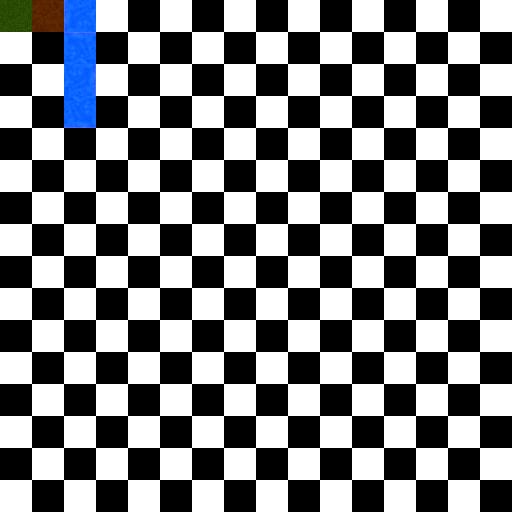
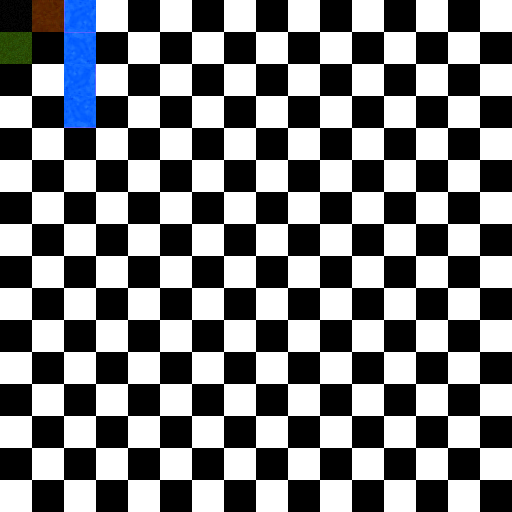
Fog of war

Changed region(s): [[0.0, 0.0, 0.0625, 0.125]]

diff --git a/src/com/adavieslyons/util/map/Map.java b/src/com/adavieslyons/util/map/Map.java
@@ -1,7 +1,10 @@
 package com.adavieslyons.util.map;
 
+import java.util.Arrays;
+
 import com.adavieslyons.orthorpg.entities.NPC;
 import com.adavieslyons.orthorpg.gamestate.states.GameState;
+import com.adavieslyons.util.SpriteSheet;
 import com.adavieslyons.util.Vector2i;
 import com.adavieslyons.util.XMLParser;
 import com.adavieslyons.util.map.pathfinding.AStar;
@@ -10,6 +13,7 @@ import com.adavieslyons.util.map.pathfinding.AStar.Node;
 
 import org.newdawn.slick.GameContainer;
 import org.newdawn.slick.Graphics;
+import org.newdawn.slick.Image;
 import org.newdawn.slick.SlickException;
 import org.w3c.dom.Document;
 import org.w3c.dom.Element;
@@ -26,9 +30,11 @@ public class Map {
 	int width;
 	int height;
 	MapLayer layers[];
+	boolean fogOfWar[][];
 	NPC npcs[];
 	CollisionMap collisionMap;
 	Node[][] nodeMatrix;
+	Image fogOfWarTexture;
 	
 	public void update(GameContainer gc, GameState game, int delta) throws SlickException {
 		for (NPC npc : npcs)
@@ -52,6 +58,21 @@ public class Map {
 		
 		for (NPC npc : npcs)
 			npc.render(gc, graphics);
+	}
+	
+	public void renderPostEntities(GameContainer gc, Graphics graphics) throws SlickException {
+		int tX = 0;
+		for (boolean fogOfWarRow[] : fogOfWar)
+		{
+			int tY = 0;
+			for (boolean fogOfWarTile : fogOfWarRow)
+			{
+				if (fogOfWarTile == true)
+					fogOfWarTexture.draw(tX * 32, tY * 32);
+				tY++;
+			}
+			tX++;
+		}
 	}
 	
 	public void load(GameContainer gc, GameState game) throws SlickException {
@@ -87,7 +108,7 @@ public class Map {
 				}
 			}
 			
-			layers[i] = new MapLayer(i_layerTiles);
+			layers[i] = new MapLayer(i_layerTiles, this);
 		}
 		
 		Element npcRoot = (Element) info.getElementsByTagName("NPCs").item(0);
@@ -124,6 +145,10 @@ public class Map {
 			npcs[i] = npc;
 		}
 		
+		fogOfWarTexture = SpriteSheet.getSpriteSheet(0).getSubImage(0, 0, 32, 32);
+		fogOfWar = new boolean[getWidth()][getHeight()];
+		for (boolean row[] : fogOfWar)
+			Arrays.fill(row, true);
 		collisionMap = new CollisionMap(this);
 		nodeMatrix = AStar.getNodeMatrix(collisionMap);
 	}
@@ -138,5 +163,13 @@ public class Map {
 	
 	public int getHeight() {
 		return height;
+	}
+	
+	public boolean isFogOfWar(int tX, int tY) {
+		return fogOfWar[tX][tY];
+	}
+
+	public void revealCoordinate(int tX, int tY) {
+		fogOfWar[tX][tY] = false;
 	}
 }

diff --git a/src/com/adavieslyons/orthorpg/entities/NPC.java b/src/com/adavieslyons/orthorpg/entities/NPC.java
@@ -13,6 +13,7 @@ import com.adavieslyons.util.dialog.DialogReply;
 import com.adavieslyons.util.dialog.Dialogable;
 import com.adavieslyons.util.map.Map;
 import com.adavieslyons.util.map.pathfinding.AStar;
+import com.sun.xml.internal.bind.v2.schemagen.xmlschema.Occurs;
 
 import java.io.IOException;
 import java.util.Enumeration;
@@ -186,7 +187,7 @@ public class NPC extends MovingPathEntity implements Dialogable {
 	
 	public void render(GameContainer gc, Graphics graphics) throws SlickException {
 		graphics.drawImage(texture, (int) (getRenderPosition().getX() * Game.TILE_SIZE), (int) (getRenderPosition().getY() * Game.TILE_SIZE - 32));
-				
+		
 		if (dialogShowing)
 			dGUI.render(gc, graphics);
 	}

diff --git a/src/com/adavieslyons/util/map/MapLayer.java b/src/com/adavieslyons/util/map/MapLayer.java
@@ -9,9 +9,11 @@ import org.newdawn.slick.Graphics;
  */
 public class MapLayer {
 	MapTileData tiles[][];
+	Map map;
 	
-	public MapLayer(MapTileData Tiles[][]) {
-		tiles = Tiles;
+	public MapLayer(MapTileData tiles[][], Map map) {
+		this.map = map;
+		this.tiles = tiles;
 	}
 	
 	public boolean getCollideable(int y, int x) {
@@ -25,7 +27,8 @@ public class MapLayer {
 		for (MapTileData[] tileRow : tiles) {
 			x = 0;
 			for (MapTileData tile : tileRow) {
-				MapTile.getTile(tile.getId()).render(gc, graphics, x * 32, y * 32);
+				if (!map.isFogOfWar(x, y))
+					MapTile.getTile(tile.getId()).render(gc, graphics, x * 32, y * 32);
 				x++;
 			}
 			y++;

diff --git a/src/com/adavieslyons/orthorpg/entities/Player.java b/src/com/adavieslyons/orthorpg/entities/Player.java
@@ -28,6 +28,19 @@ public class Player extends MovingEntity {
 		}
 
 		updateMove(delta);
+		
+		for (int x = -5; x <= 5; x++)
+		{
+			for (int y = -5; y <= 5; y++)
+			{
+				int tX = getOccupiedPosition().getX() + x;
+				int tY = getOccupiedPosition().getY() + y;
+				
+				if (tX >= 0 && tY >= 0)
+					if (tX < map.getWidth() && tY < map.getHeight())
+						map.revealCoordinate(tX, tY);
+			}
+		}
 	}
 	
 	@Override

diff --git a/src/com/adavieslyons/orthorpg/gamestate/states/GameState.java b/src/com/adavieslyons/orthorpg/gamestate/states/GameState.java
@@ -55,6 +55,7 @@ public class GameState extends State {
 	public void render(GameContainer gc, Graphics graphics) throws SlickException {
 		map.render(gc, graphics);
 		player.render(gc, graphics);
+		map.renderPostEntities(gc, graphics);
 		//inventoryGUI.render(gc, graphics);
 	}
 	
